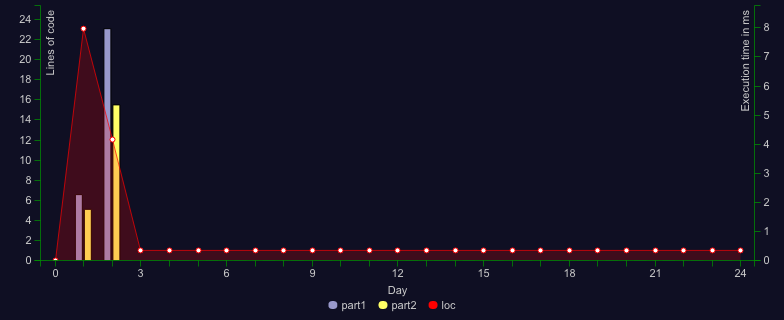
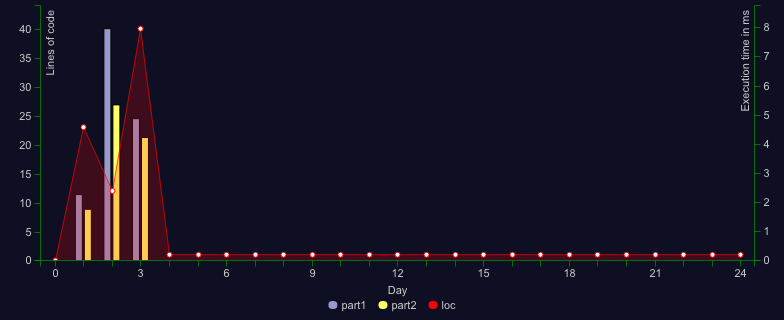
day 3: done

diff --git a/src/day03/index.ts b/src/day03/index.ts
@@ -1,0 +1,81 @@
+import run from "aocrunner"
+import {
+  apply,
+  chain,
+  compose,
+  converge,
+  divide,
+  head,
+  identity,
+  intersection,
+  length,
+  map,
+  pipe,
+  reduce,
+  splitAt,
+  splitEvery,
+  sum,
+  __,
+} from "ramda"
+import { splitLines, toCharCode } from "../utils/index.js"
+
+const parseInput = (rawInput: string) => splitLines(rawInput)
+
+const toPriority = (charCode: number) => charCode - (charCode >= toCharCode("a") ? 96 : 38)
+
+const part1 = (rawInput: string) => {
+  return pipe(
+    map<string, [string, string]>(converge(splitAt, [compose(divide(__, 2), length), identity])),
+    chain(apply(intersection)),
+    map(toCharCode),
+    map(toPriority),
+    sum,
+  )(parseInput(rawInput))
+}
+
+const part2 = (rawInput: string) => {
+  return pipe(
+    splitEvery(3),
+    chain((chunk) => reduce(intersection, head(chunk), chunk)),
+    map(toCharCode),
+    map(toPriority),
+    sum,
+  )(parseInput(rawInput))
+}
+
+run({
+  part1: {
+    tests: [
+      {
+        input: `
+          vJrwpWtwJgWrhcsFMMfFFhFp
+          jqHRNqRjqzjGDLGLrsFMfFZSrLrFZsSL
+          PmmdzqPrVvPwwTWBwg
+          wMqvLMZHhHMvwLHjbvcjnnSBnvTQFn
+          ttgJtRGJQctTZtZT
+          CrZsJsPPZsGzwwsLwLmpwMDw
+        `,
+        expected: 157,
+      },
+    ],
+    solution: part1,
+  },
+  part2: {
+    tests: [
+      {
+        input: `
+        vJrwpWtwJgWrhcsFMMfFFhFp
+        jqHRNqRjqzjGDLGLrsFMfFZSrLrFZsSL
+        PmmdzqPrVvPwwTWBwg
+        wMqvLMZHhHMvwLHjbvcjnnSBnvTQFn
+        ttgJtRGJQctTZtZT
+        CrZsJsPPZsGzwwsLwLmpwMDw
+      `,
+        expected: 70,
+      },
+    ],
+    solution: part2,
+  },
+  trimTestInputs: true,
+  onlyTests: false,
+})

diff --git a/README.md b/README.md
@@ -18,7 +18,7 @@
 
 [![Day](https://badgen.net/badge/01/%E2%98%85%E2%98%85/green)](src/day01)
 [![Day](https://badgen.net/badge/02/%E2%98%85%E2%98%85/green)](src/day02)
-![Day](https://badgen.net/badge/03/%E2%98%86%E2%98%86/gray)
+[![Day](https://badgen.net/badge/03/%E2%98%85%E2%98%85/green)](src/day03)
 ![Day](https://badgen.net/badge/04/%E2%98%86%E2%98%86/gray)
 ![Day](https://badgen.net/badge/05/%E2%98%86%E2%98%86/gray)
 ![Day](https://badgen.net/badge/06/%E2%98%86%E2%98%86/gray)
@@ -88,9 +88,9 @@ Both parts: 13.285466ms
 
 ```
 Day 03
-Time part 1: -
-Time part 2: -
-Both parts: -
+Time part 1: 4.367ms
+Time part 2: 3.869ms
+Both parts: 8.236139999999999ms
 ```
 
 ```
@@ -248,8 +248,8 @@ Both parts: -
 ```
 
 ```
-Total stars: 4/50
-Total time: 17.3ms
+Total stars: 6/50
+Total time: 25.536ms
 ```
 
 <!--/RESULTS-->

diff --git a/src/day03/README.md b/src/day03/README.md
@@ -1,0 +1,9 @@
+# 🎄 Advent of Code 2022 - day 3 🎄
+
+## Info
+
+Task description: [link](https://adventofcode.com/2022/day/3)
+
+## Notes
+
+...
